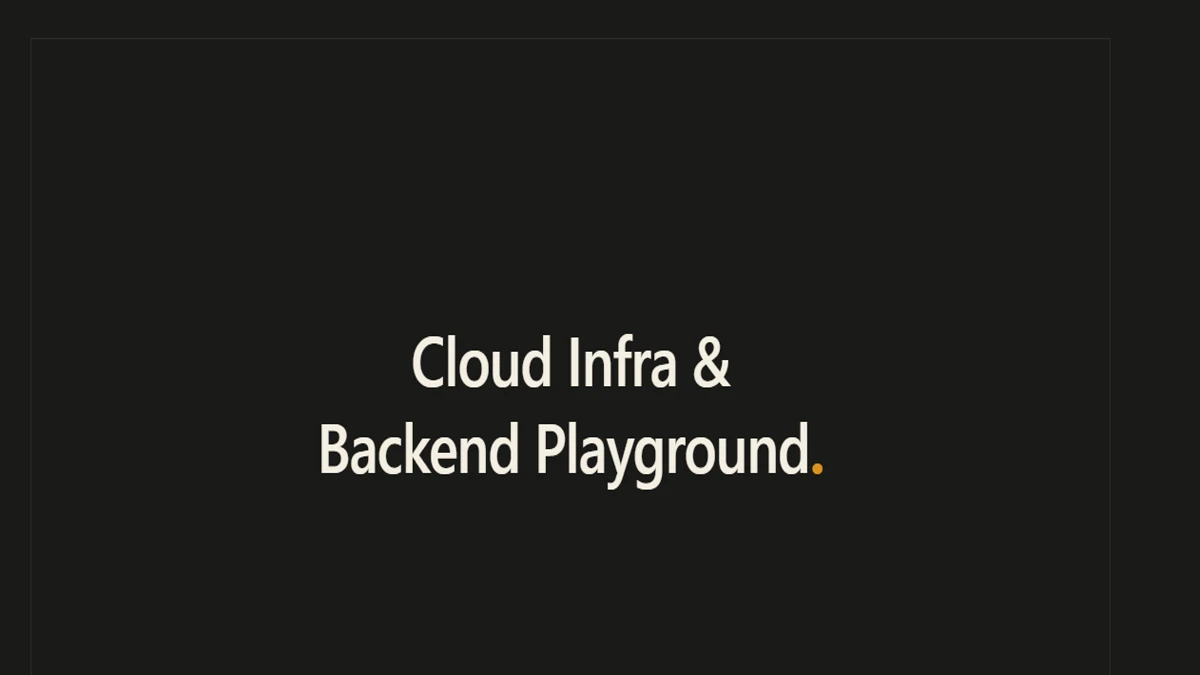
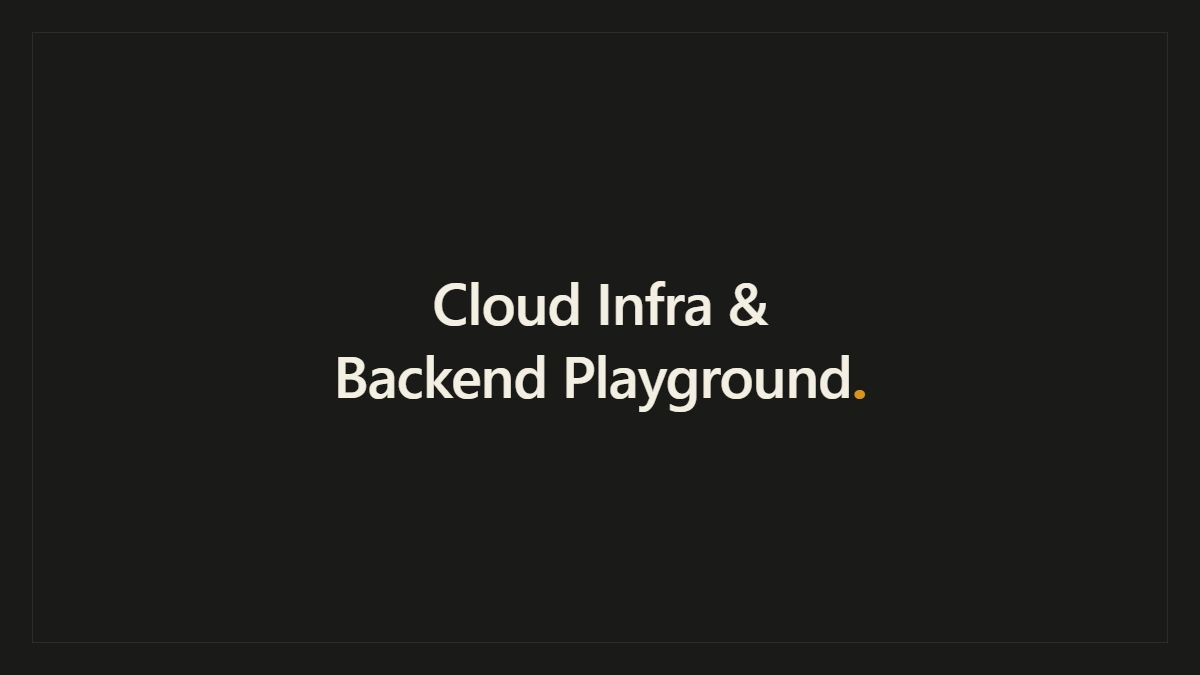
style(work): align Project 01 and Project 02 thumbnail titles, font weights, and badge lengths for identical balance

Changed region(s): [[0.2467, 0.4044, 0.74, 0.7467]]

diff --git a/portfolio/src/data/portfolio.js b/portfolio/src/data/portfolio.js
@@ -88,7 +88,7 @@ export const projects = [
     role: 'Backend engineering & DevOps',
     eventCategory: 'UPDATE / MILESTONE',
     eventDate: 'OCT 2026',
-    stamp: 'BEHIND THIS SITE',
+    stamp: 'SYSTEM ARCHITECTURE',
     badge: 'UPDATE · OCT 2026',
     description: 'Production architecture powering this portfolio and backend services. Designed to prove pragmatic backend engineering on resource-constrained cloud infrastructure (2GB RAM). Features Spring Boot 3 implementing Pragmatic CQRS (command validation, XSS sanitization, SHA-256 IP hashing), HikariCP pool tuning (max 5 connections), and PostgreSQL 16 Alpine containerization with hard memory caps (total 640MB budget leaving >1.2GB system headroom). Deployed via atomic zero-downtime symlink switches and TLS automated renewal.',
     outcome: 'A live, resilient, low-memory production environment running on adihadiansyah.site. Restored from zero with Docker multi-stage builds and fully isolated database networks.',
@@ -99,7 +99,7 @@ export const projects = [
   {
     id: 'financial-ledger-engine',
     number: '02',
-    name: 'High-Throughput Financial Ledger & Event-Driven Engine',
+    name: 'Financial Ledger & Transaction Engine',
     category: 'Backend & DevOps',
     year: '2026',
     image: '/images/financial-ledger.webp',
@@ -109,8 +109,8 @@ export const projects = [
     role: 'Backend Engineering & Architecture',
     eventCategory: 'ENGINEERING SPEC / REPO',
     eventDate: 'OCT 2026',
-    stamp: 'ARCHITECTURE DEEP-DIVE',
-    badge: 'NEW SPEC · OCT 2026',
+    stamp: 'EVENT-DRIVEN SPEC',
+    badge: 'SPEC · OCT 2026',
     description: 'Mission-critical financial ledger architecture engineered to guarantee mathematical consistency and zero double-spending under high transfer contention. Built with Spring Boot 3, PostgreSQL 16, and Kafka/Redpanda. Enforces strict double-entry bookkeeping (sum of debits equals sum of credits invariant), deterministic row-level lock ordering (min/max account IDs via SELECT ... FOR UPDATE) to eliminate deadlocks, and the Transactional Outbox Pattern with SKIP LOCKED worker polling for reliable at-least-once event streaming. Features database-backed idempotency protection against network retries and a comprehensive multi-threaded concurrency test suite.',
     outcome: 'Complete architectural specification, ACID data models, and enterprise Java implementation designed for high-concurrency fintech workloads. Directly linked to dedicated deep-dive repository.',
     links: [
